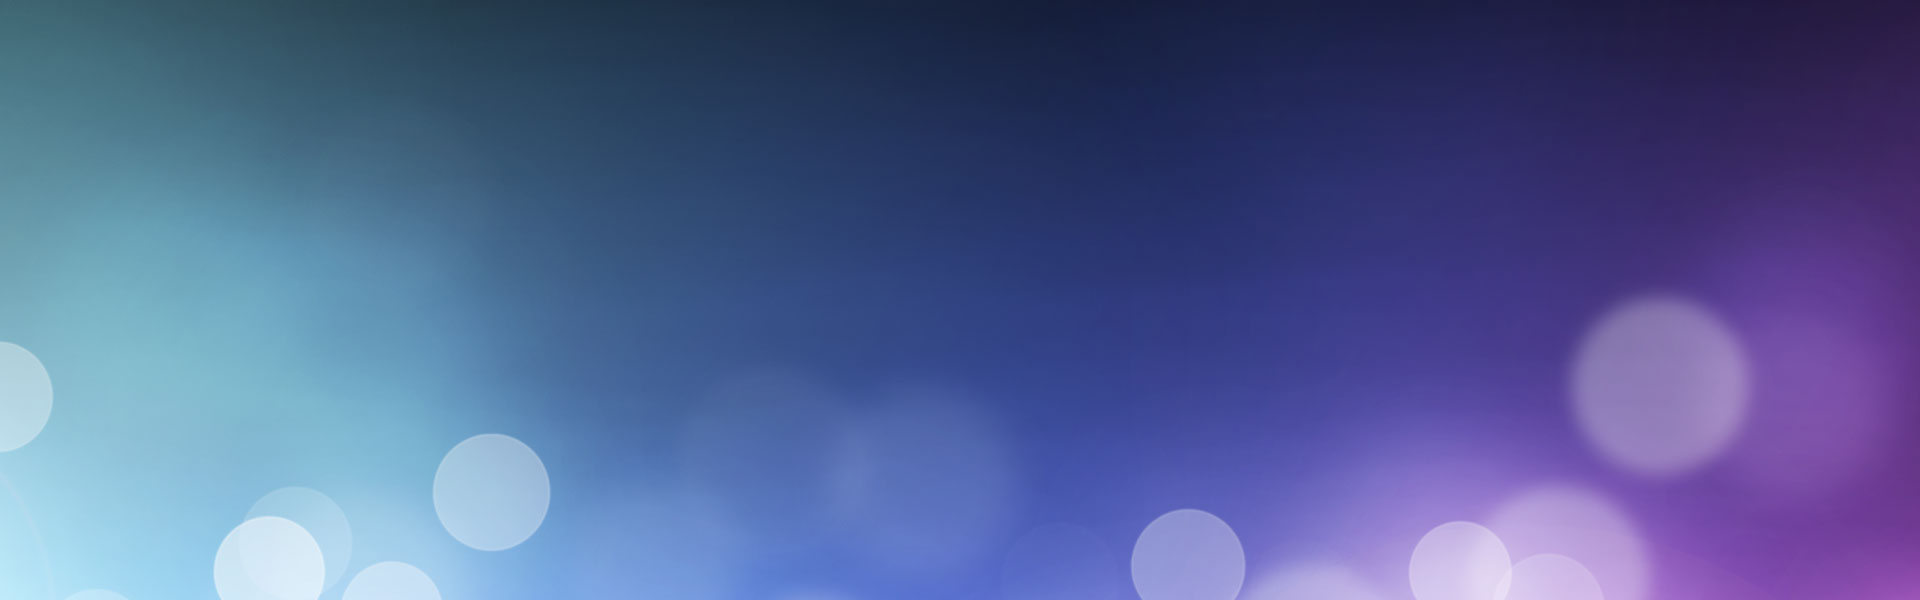
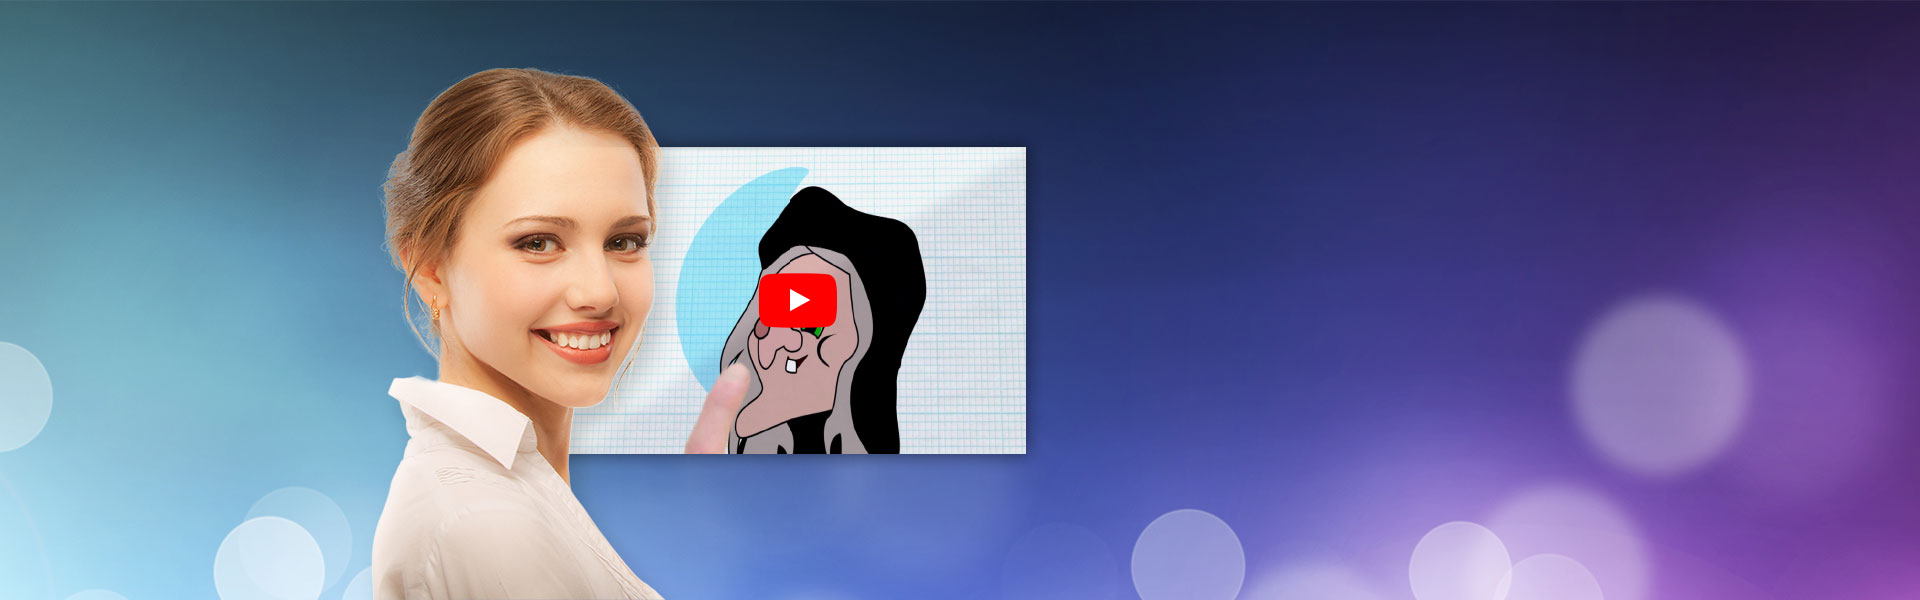
Edited header and added video dialog to show on top on click.

Changed region(s): [[0.1875, 0.09, 0.5625, 1.0]]

diff --git a/scripts/main.js b/scripts/main.js
@@ -7,7 +7,7 @@
  */
 
 function on_site_load() {
-	Caracal.lightbox = new LightBox('a.image.direct', false, false, true);
+	// Caracal.lightbox = new LightBox('a.image.direct', false, false, true);
 
 	$('form').on('analytics-event', function(event, data) {
             if (!data.error)
@@ -15,6 +15,21 @@ function on_site_load() {
                     	'event':'leadSent'
                     });
     });
+
+    // video dialog
+	var video_dialog = new Dialog();
+
+	video_dialog.setTitle(language_handler.getText(null, 'dialog_video_title'));
+	video_dialog.setSize(640, 400);
+
+	$('a.video').not('.mobile').click(function(event) {
+		// prevent link from working
+		event.preventDefault();
+
+		// set content from URL and show it
+		video_dialog.setContentFromURL($(this).attr('href'));
+		video_dialog.showWhenReady();
+	});
 }
 
 $(on_site_load);

diff --git a/styles/content.css b/styles/content.css
@@ -21,11 +21,11 @@ header {
 	background-repeat: no-repeat;
 	background-position: center center;
 	background-size: auto 600px;
-	height: 545px;
+	height: 590px;
 	color:white;
 }
 
-header div.inner_wrap a {
+header div.inner_wrap a:first-of-type {
 	display: inline-block;
 	position: absolute;
 	top:10px;
@@ -65,8 +65,19 @@ header div.inner_wrap div:nth-of-type(2) {
 	margin-right: 45px;
 }
 
+a.video {
+	position: absolute;
+	left: 188px;
+	margin: 0;
+	margin-top: 142px;
+	padding-top: 0;
+	width: 477px;
+	height: 307px;
+}
 
-
+a.video:hover {
+	cursor: pointer;
+}
 
 
 /*ARTICLE SECTION*/
